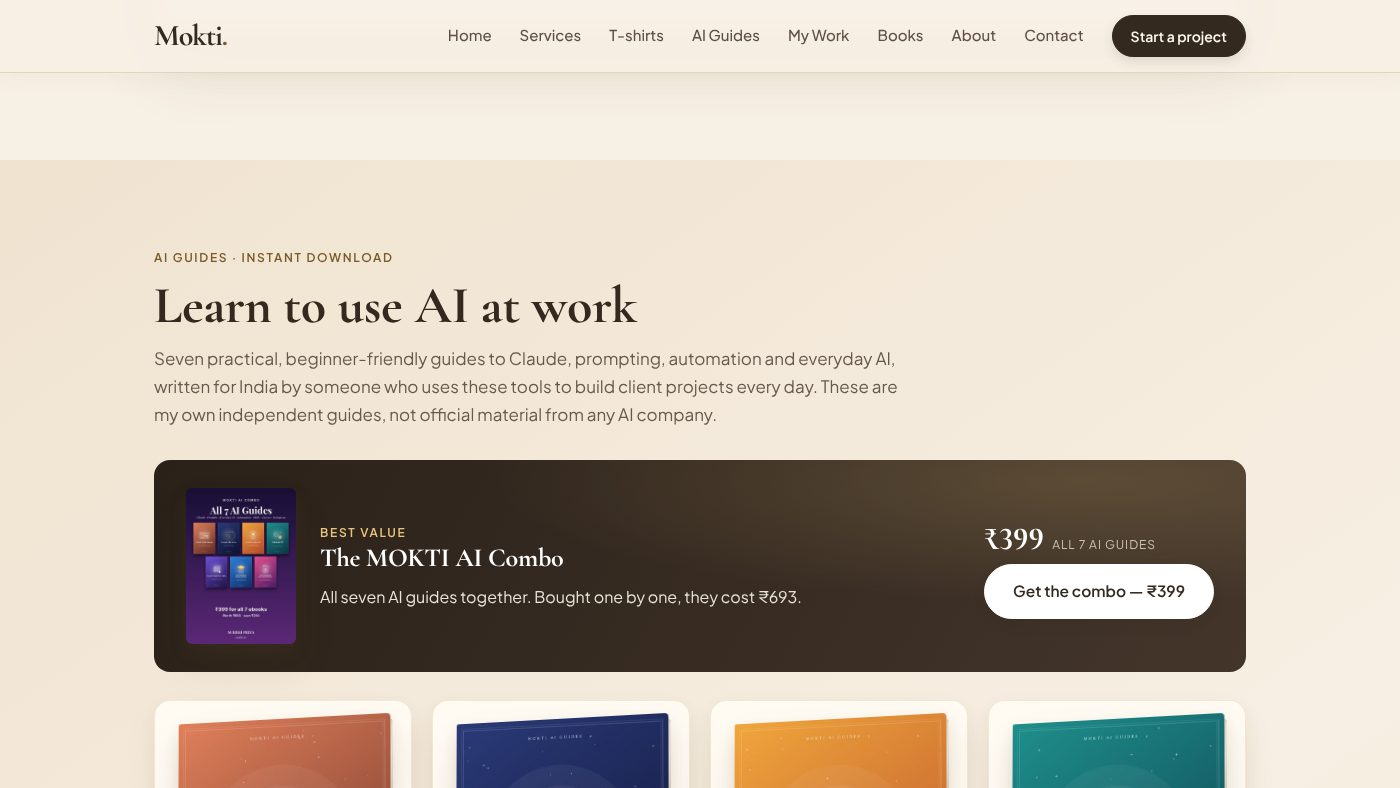
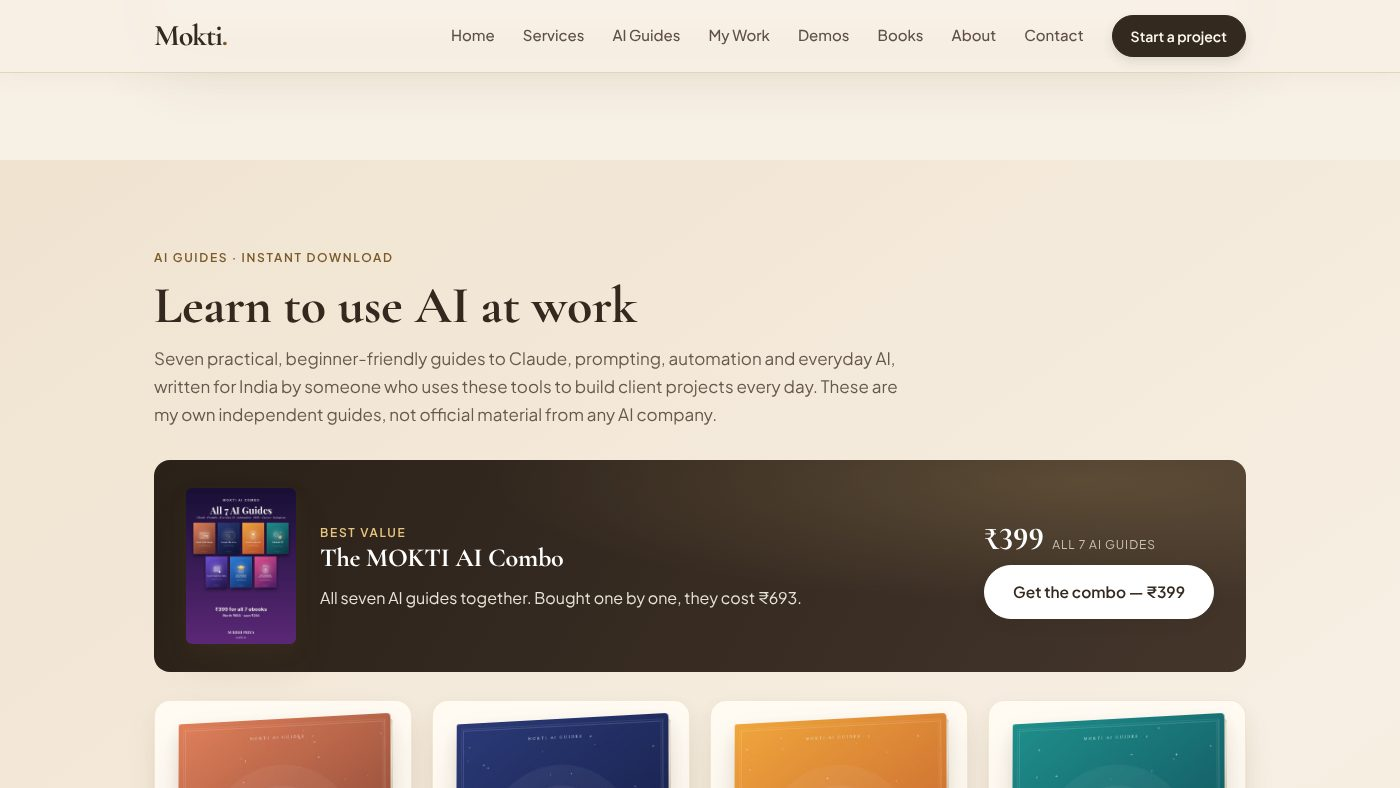
New website and Shopify package prices; fresh Mokti screenshots
- Websites built with AI: ₹4,999 / ₹9,999 / from ₹19,999, with what each
  includes and a note on domain cost and extras.
- Shopify store: ₹5,999 / ₹9,999 / ₹16,999, with a note that Shopify's
  own plan is billed by Shopify.
- Websites intro links to the demos.
- Mokti case study screenshots retaken with the new menu.

No ebook prices, Razorpay links or form fields changed.

Claude-Session: https://claude.ai/code/session_0154zyDHaokik6MzQZq4uJHJ

diff --git a/mokti-app/index.html b/mokti-app/index.html
@@ -130,30 +130,31 @@
       <article class="service" id="service-website">
         <p class="eyebrow">service 01</p>
         <h4 class="service-name">Websites built with AI</h4>
-        <p class="service-intro">A clean, fast website for your brand, portfolio or small business, built with AI tools and finished by hand.</p>
+        <p class="service-intro">A clean, fast website for your brand, portfolio or small business, built with AI tools and finished by hand. <a class="text-link" href="demos/">See sample salon, boutique and clinic sites →</a></p>
         <div class="package-grid">
           <div class="package">
             <span class="chapter-tag">Basic</span>
             <p class="package-from">Starting at</p>
-            <p class="package-price">₹1,999</p>
-            <ul><li>One-page site</li><li>Mobile friendly</li><li>Contact or WhatsApp button</li></ul>
+            <p class="package-price">₹4,999</p>
+            <ul><li>Up to 5 pages, built from a Mokti demo</li><li>Your logo, colours and mobile layout</li><li>WhatsApp + enquiry form, basic SEO</li><li>2 rounds of changes</li></ul>
             <button class="linklike" data-enquire="Websites built with AI|Basic">Enquire →</button>
           </div>
           <div class="package">
             <span class="chapter-tag">Standard</span>
             <p class="package-from">Starting at</p>
-            <p class="package-price">₹3,999</p>
-            <ul><li>Up to 5 pages</li><li>Basic SEO setup</li><li>Payment link or booking button</li></ul>
+            <p class="package-price">₹9,999</p>
+            <ul><li>Up to 10 pages, custom design</li><li>Booking form, gallery and blog</li><li>Razorpay payment button</li><li>3 rounds of changes + 1 month of support</li></ul>
             <button class="linklike" data-enquire="Websites built with AI|Standard">Enquire →</button>
           </div>
           <div class="package">
             <span class="chapter-tag">Premium</span>
             <p class="package-from">Starting at</p>
-            <p class="package-price">₹6,999</p>
-            <ul><li>Complete website, up to 10 pages</li><li>Blog, shop or booking setup</li><li>Domain, hosting + 1 month of support</li></ul>
+            <p class="package-price">₹19,999</p>
+            <ul><li>Online shop with cart and payments</li><li>Up to 50 products and order emails</li><li>Training video + 1 month of support</li></ul>
             <button class="linklike" data-enquire="Websites built with AI|Premium">Enquire →</button>
           </div>
         </div>
+        <p class="fine-print package-note">You pay for your own domain name, usually under ₹1,200 a year. Hosting is set up on a free plan where your site fits it. Extra page ₹499 · extra round of changes ₹499 · monthly care ₹499.</p>
       </article>
       <article class="service" id="service-shopify">
         <p class="eyebrow">service 02</p>
@@ -163,25 +164,26 @@
           <div class="package">
             <span class="chapter-tag">Basic</span>
             <p class="package-from">Starting at</p>
-            <p class="package-price">₹2,999</p>
+            <p class="package-price">₹5,999</p>
             <ul><li>Theme setup and branding</li><li>Up to 10 products</li><li>Payments + shipping setup</li></ul>
             <button class="linklike" data-enquire="Shopify store|Basic">Enquire →</button>
           </div>
           <div class="package">
             <span class="chapter-tag">Standard</span>
             <p class="package-from">Starting at</p>
-            <p class="package-price">₹4,999</p>
+            <p class="package-price">₹9,999</p>
             <ul><li>Customised theme and pages</li><li>Up to 30 products</li><li>Policies, collections and basic SEO</li></ul>
             <button class="linklike" data-enquire="Shopify store|Standard">Enquire →</button>
           </div>
           <div class="package">
             <span class="chapter-tag">Premium</span>
             <p class="package-from">Starting at</p>
-            <p class="package-price">₹8,999</p>
+            <p class="package-price">₹16,999</p>
             <ul><li>Complete store, custom design</li><li>Up to 75 products</li><li>Apps, Shiprocket + 1 month of support</li></ul>
             <button class="linklike" data-enquire="Shopify store|Premium">Enquire →</button>
           </div>
         </div>
+        <p class="fine-print package-note">Shopify's own monthly plan and any paid apps are billed to you by Shopify.</p>
       </article>
       <article class="service" id="service-webapp">
         <p class="eyebrow">service 03</p>

diff --git a/mokti-app/style.css b/mokti-app/style.css
@@ -806,3 +806,4 @@ body{ font-variant-numeric: lining-nums; }
 .demo-note p{ color: var(--text-soft); }
 @media (max-width: 960px){ .demo-feature.flip .feature-stage{ order: 0; } }
 .demo-callout{ margin: 36px 0 0; padding: 18px 22px; border-radius: 12px; background: var(--soft-yellow); border: 1px solid rgba(199,164,107,0.35); font-size: 16px; }
+.package-note{ margin: 16px 0 0; }
